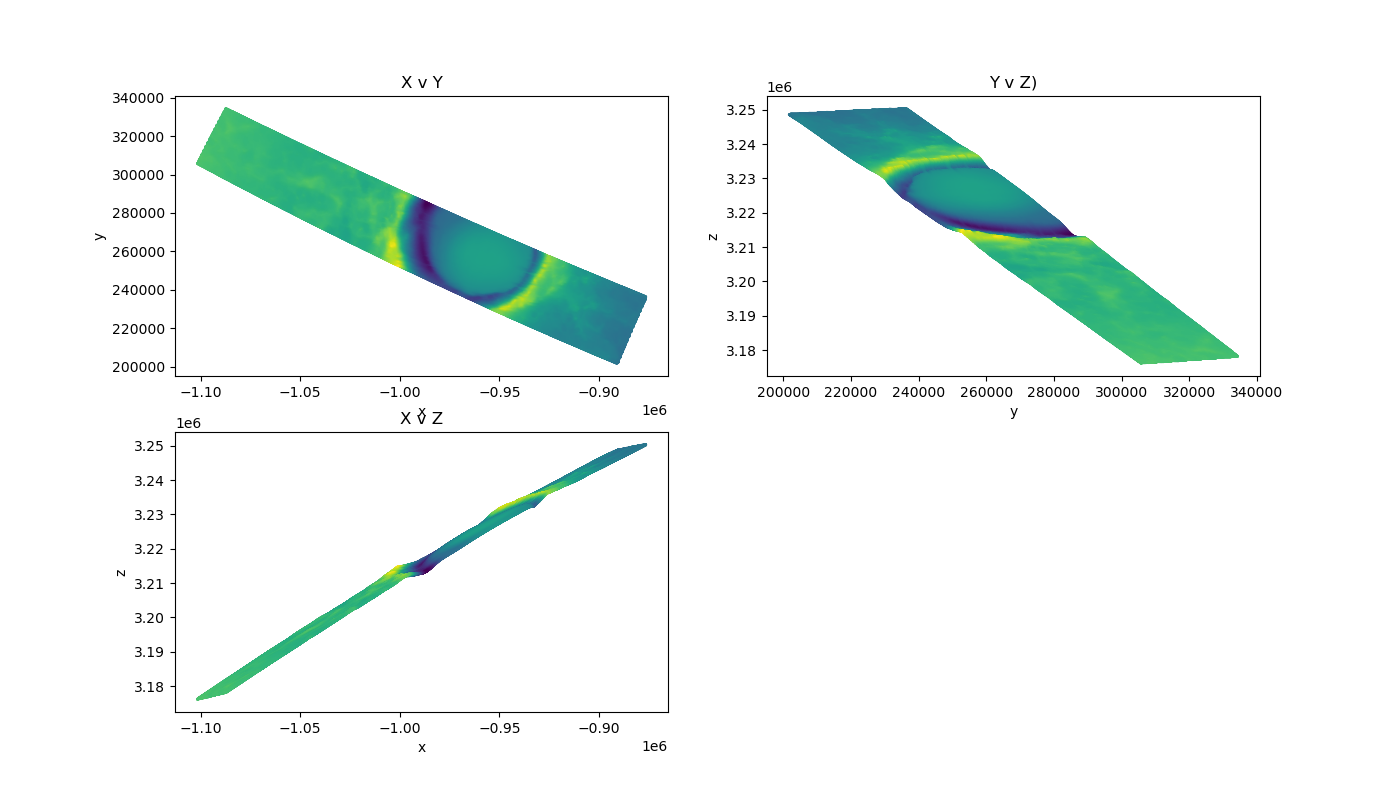
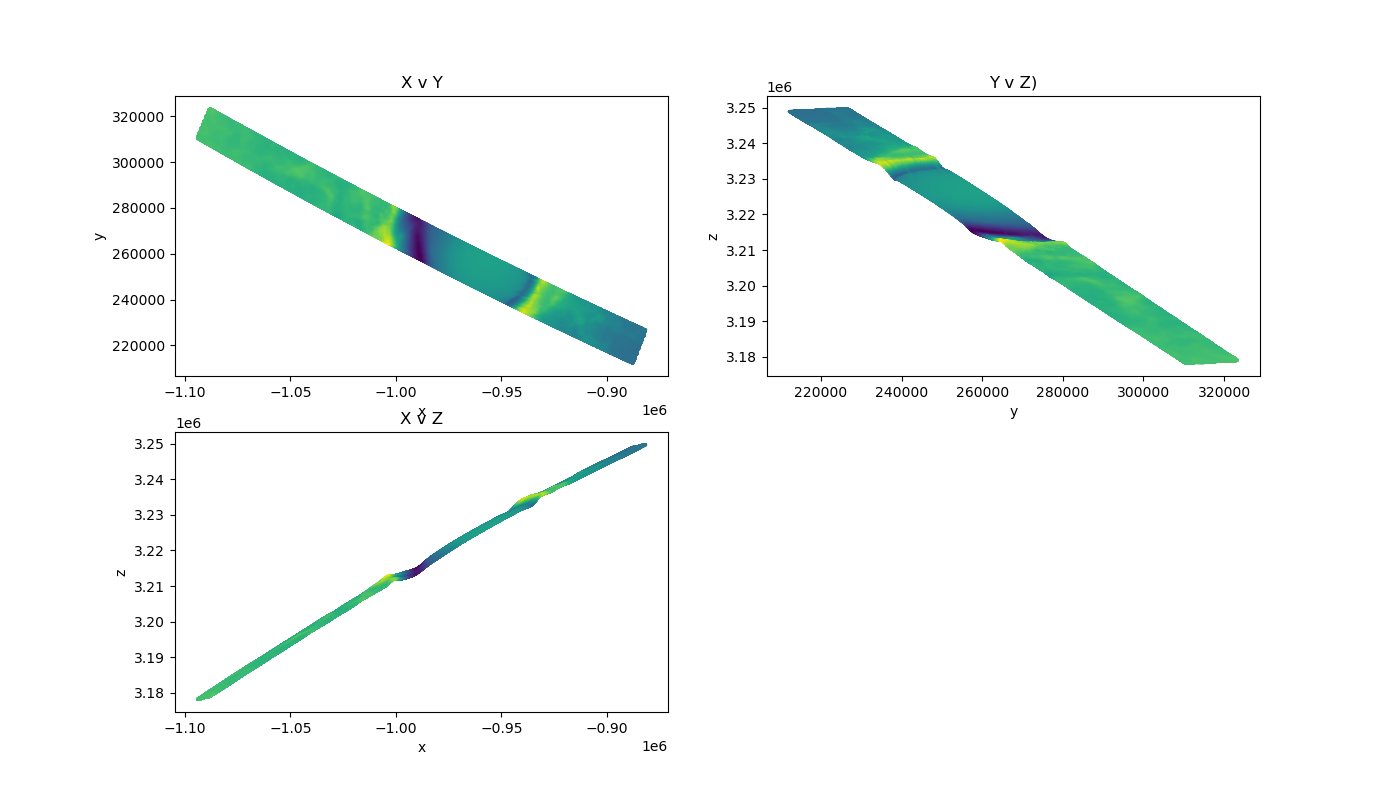
Error checking for bad facet memory allocation

diff --git a/examples/KOROLEV/code/TiffToFacets.py b/examples/KOROLEV/code/TiffToFacets.py
@@ -12,12 +12,13 @@ import unit_convs as uc
 # path to mars radius DEM
 #path = r"data/MOLA/RCropped.tif"
 #path = r"data/MOLA/MOLA_R_KOROLEV.tif"
-path = r"data/MOLA/MOLA_R_KOROLEV_TIGHT.tif"
+#path = r"data/MOLA/MOLA_R_KOROLEV_TIGHT.tif"
+path = r"data/MOLA/MOLA_R_KOROLEV_TIGHTEST.tif"
 
 # mars radius offset
 MARS_RADIUS = 3396000
 
-data, tpar = ku.load_cropped_mola_tif(path, upsample=4)
+data, tpar = ku.load_cropped_mola_tif(path, upsample=10)
 
 # compute the resolution in meters along latitude to get the square side of each pixel
 resolution = uc.dLat_to_m(tpar['scl_lat'], MARS_RADIUS)

diff --git a/examples/KOROLEV/code/params.py b/examples/KOROLEV/code/params.py
@@ -42,7 +42,7 @@ params = {
 
     # facet params
     "altitude": 316e3,           # approximate altitude [m]
-    "fs": 115.66,              # facet size [m]
+    "fs": 46.27785,              # facet size [m]
 
     # target params
     "rerad_funct": 2,  # 3-degree boxcar
